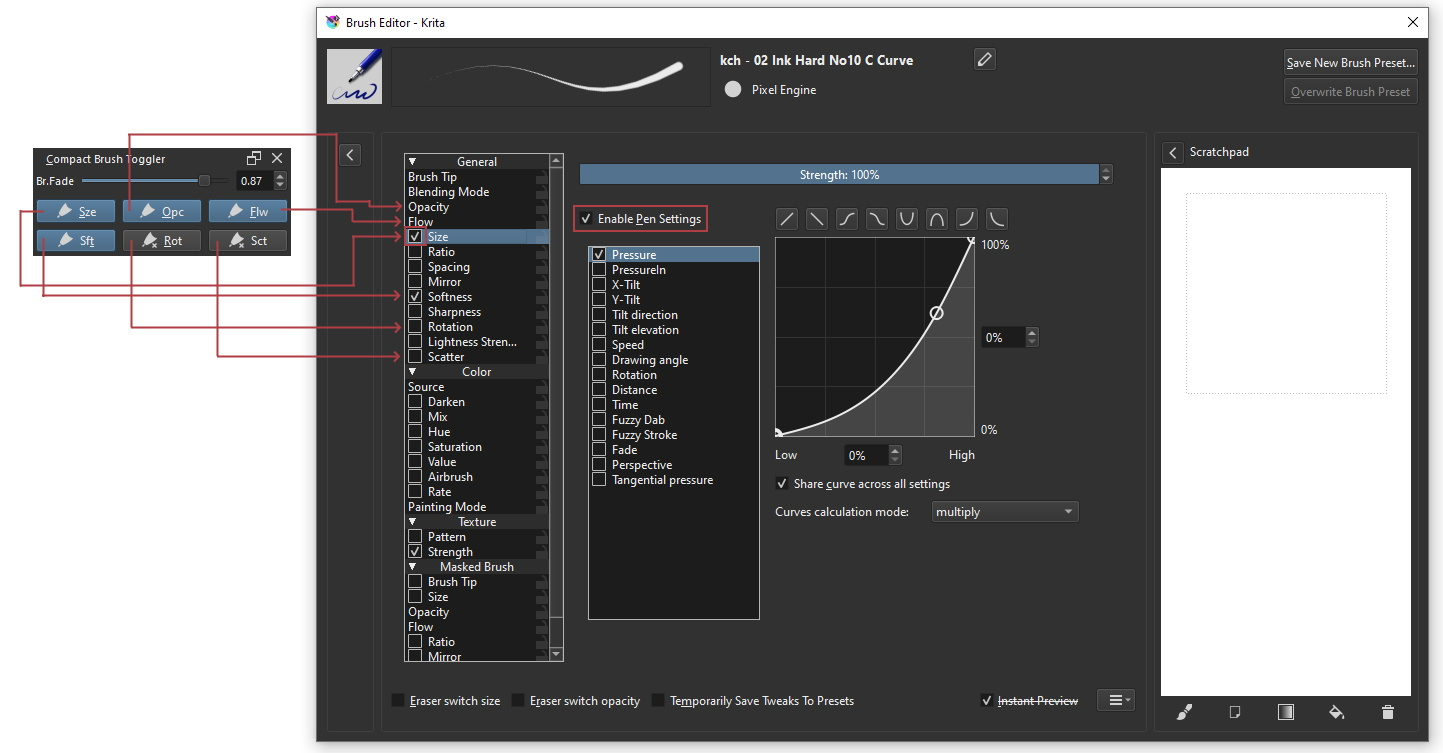
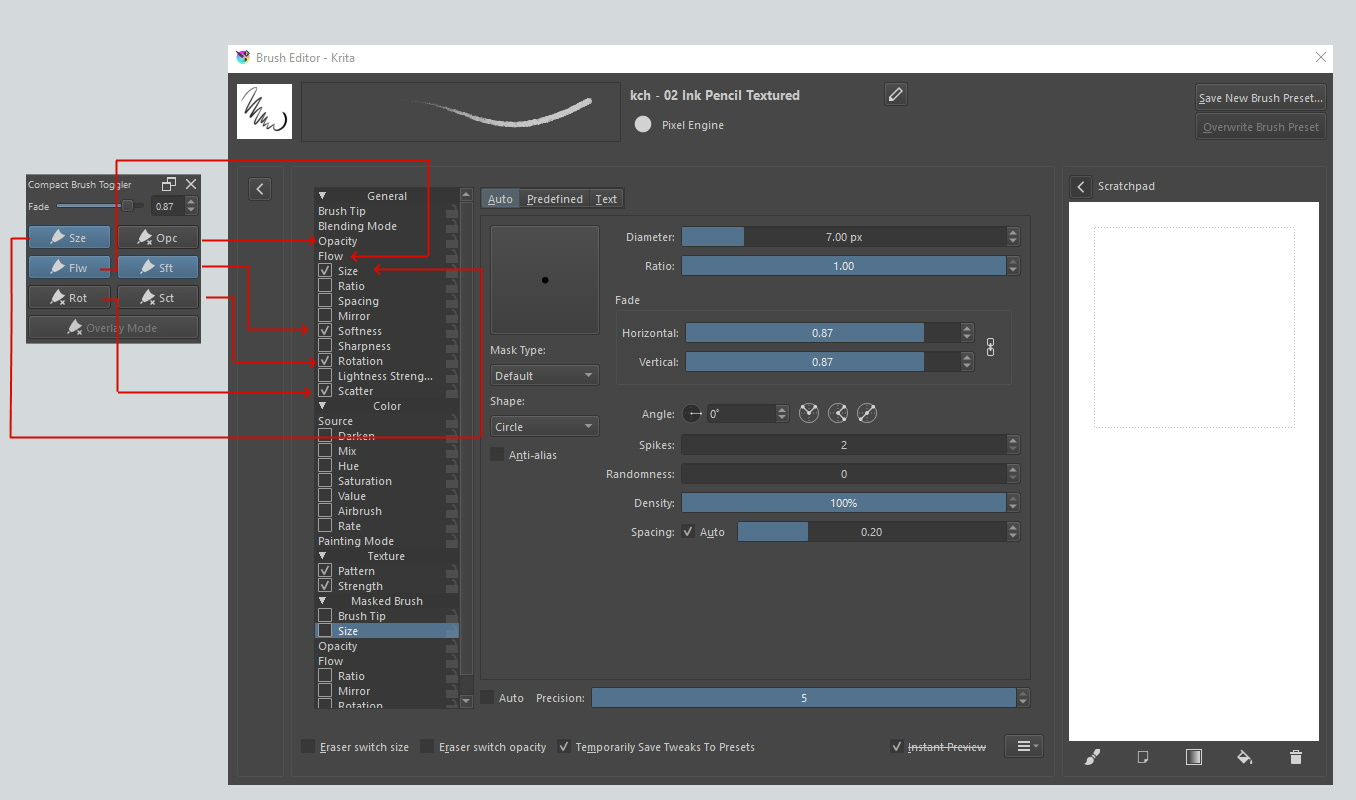
221103 - 220311 - Change Read Me

diff --git a/README.md b/README.md
@@ -35,6 +35,8 @@ The plugin loads the state of the pressure settings once a brush is selected;
 
 ![Use Pressure Curve Toggles](./screenshots/ui-brushtoggler.jpeg)
 
+*Overlay Mode for Smudge Brush*
+![Use Pressure Curve Toggles](./screenshots/ui-brushtoggler2.jpeg)
 
 *Brush Fade Slider*
 
